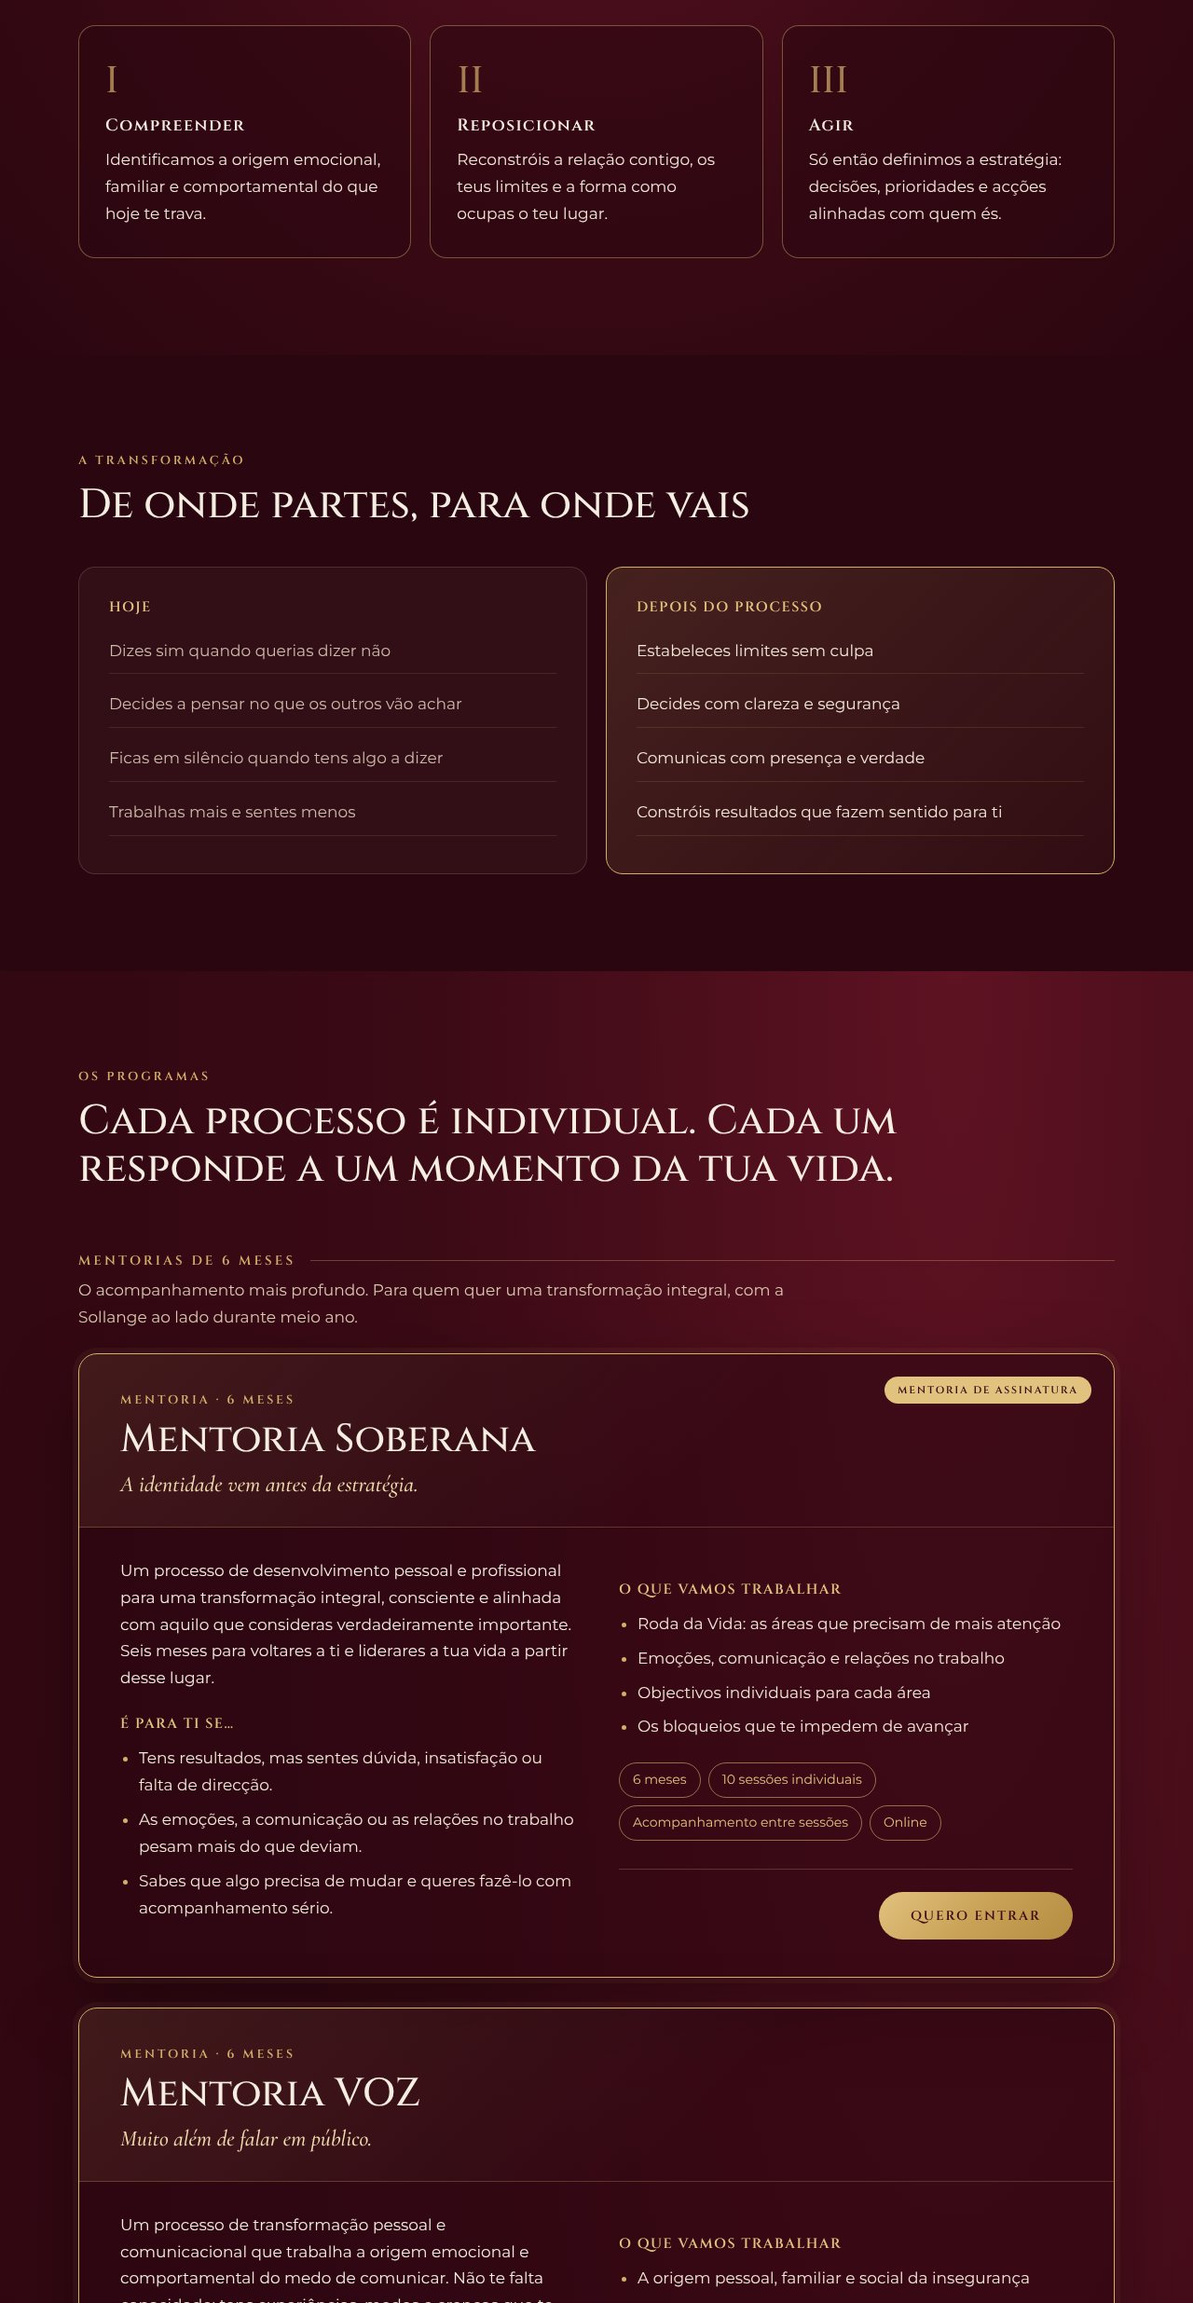
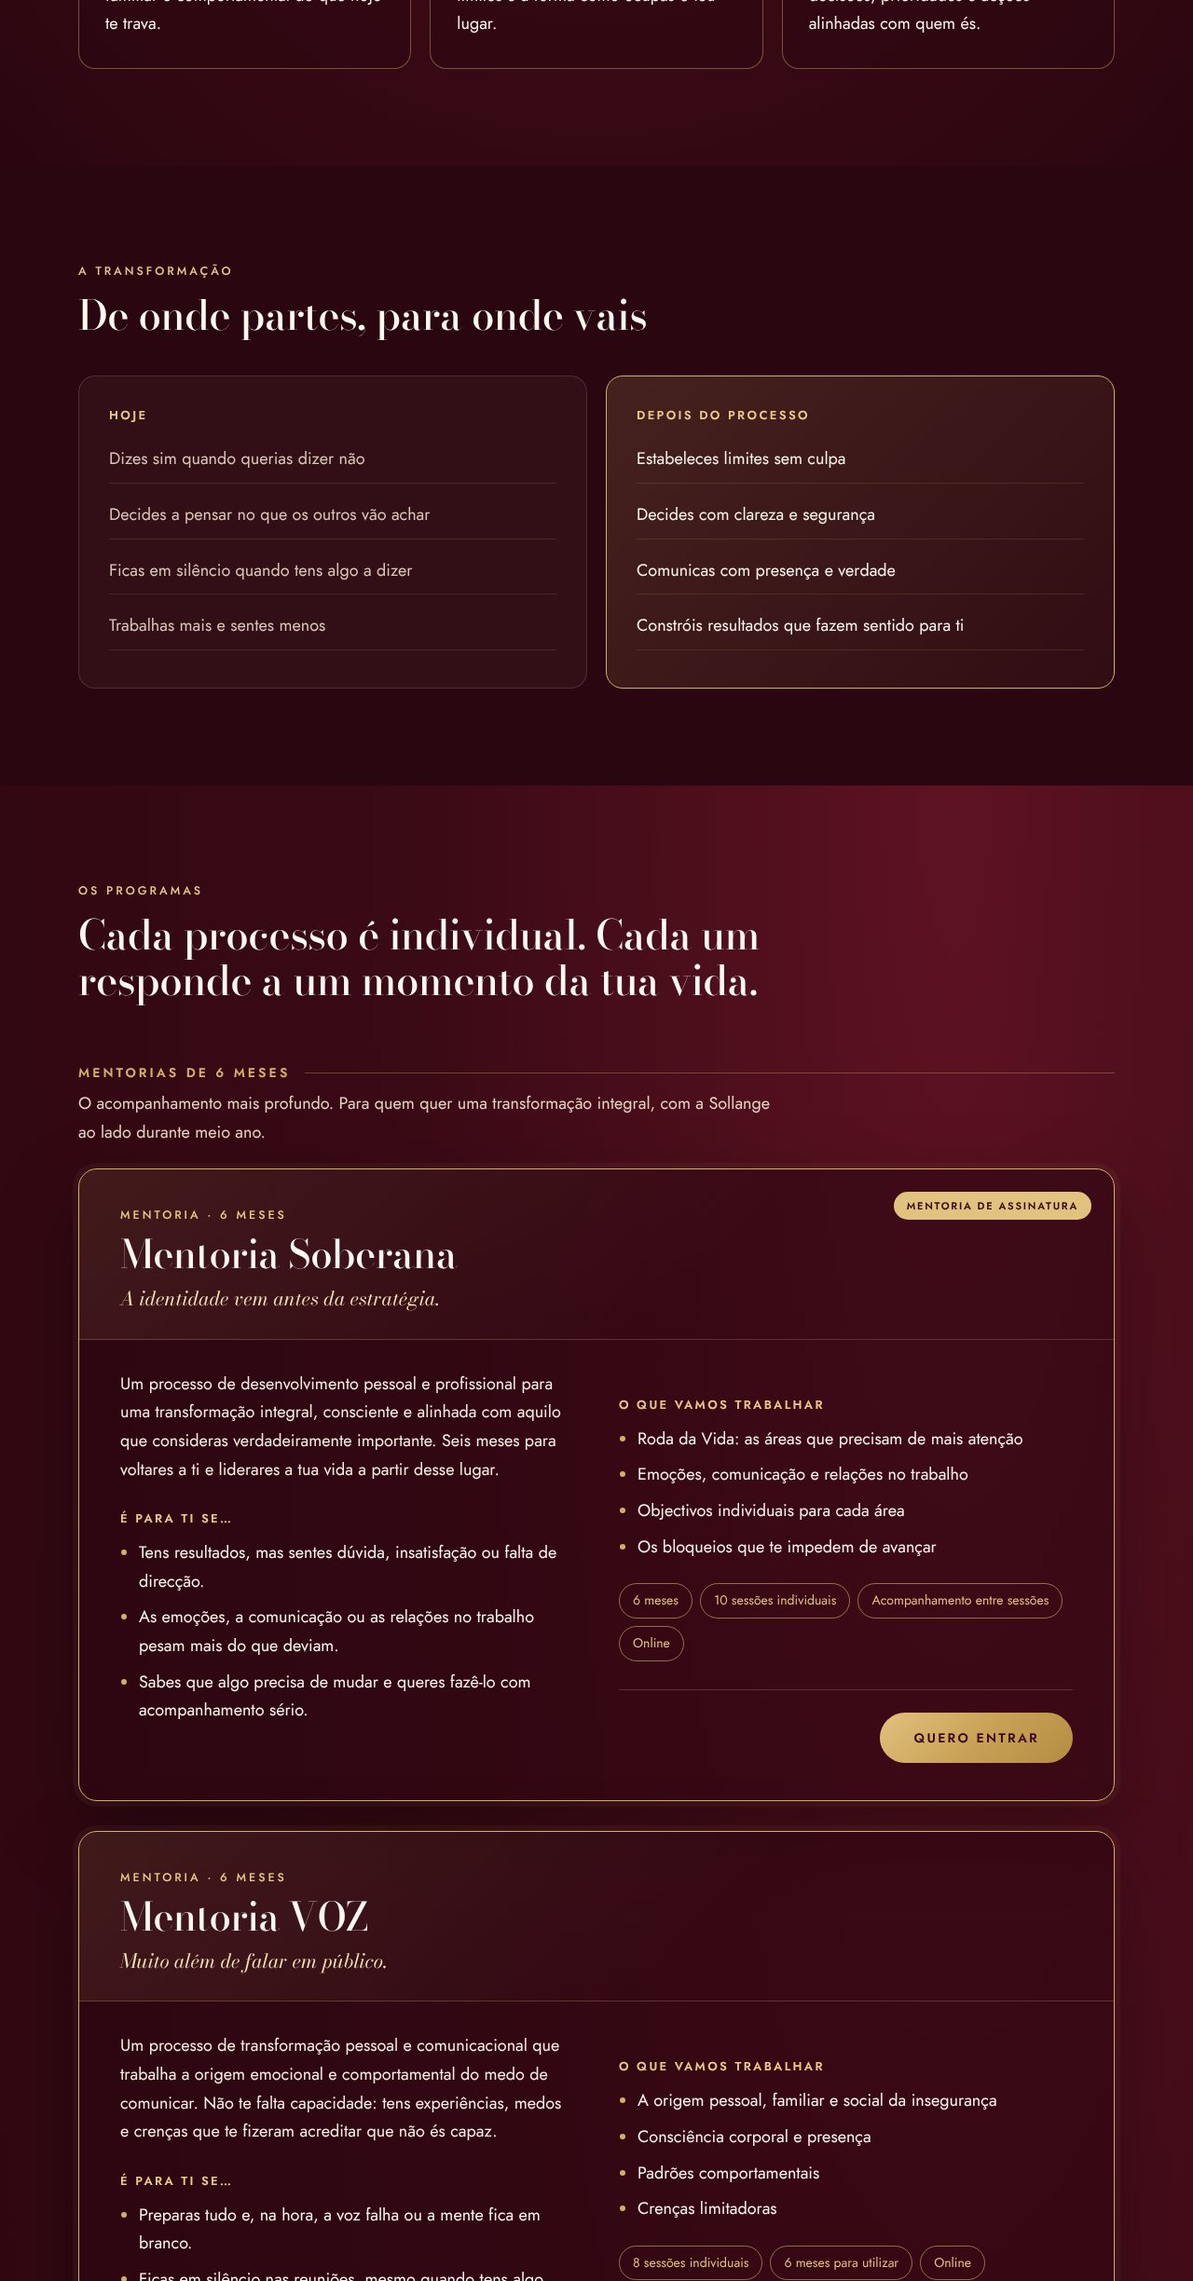
Refine typography: Bodoni Moda headings, Jost body, higher contrast
Claude-Session: https://claude.ai/code/session_01LHQJ2mQGDsvNSWxv53LoAn

diff --git a/sollange-programas.html b/sollange-programas.html
@@ -1,34 +1,35 @@
 <!DOCTYPE html>
 <html lang="pt-PT"><head><meta charset="utf-8"><meta name="viewport" content="width=device-width,initial-scale=1">
 <title>Sollange Almada Binha — Mentoria Individual</title>
-<link rel="stylesheet" href="https://fonts.googleapis.com/css2?family=Cinzel:wght@400..700&family=Cormorant+Garamond:ital,wght@0,500;1,500&family=Montserrat:wght@400;500;600&display=swap">
+<link rel="preconnect" href="https://fonts.googleapis.com"><link rel="preconnect" href="https://fonts.gstatic.com" crossorigin>
+<link rel="stylesheet" href="https://fonts.googleapis.com/css2?family=Bodoni+Moda:ital,opsz,wght@0,6..96,400..600;1,6..96,400..500&family=Jost:wght@400;500;600&display=swap">
 <style>
 *{box-sizing:border-box;margin:0}
 html{scroll-behavior:smooth}
-body{background:#2A0610;color:#F3E7D8;font:400 17px/1.7 Montserrat,Arial,sans-serif}
+body{background:#2A0610;color:#FBF4EC;font:400 18px/1.7 Jost,Arial,sans-serif;-webkit-font-smoothing:antialiased}
 a{color:inherit}
 .wrap{max-width:1160px;margin:0 auto;padding:0 24px}
-.eyebrow{font:600 13px Cinzel,Georgia,serif;letter-spacing:.22em;text-transform:uppercase;color:#D4AF6A}
-h1,h2{font-family:Cinzel,Georgia,serif;font-weight:500;color:#F6EEE3;line-height:1.15}
-h3{font:600 15px Cinzel,Georgia,serif;letter-spacing:.1em;text-transform:uppercase;color:#E2C27F;margin:24px 0 12px}
-.quote{font:italic 500 clamp(26px,3.4vw,40px)/1.3 "Cormorant Garamond",Georgia,serif;color:#F1DDB0}
-.btn{display:inline-block;background:linear-gradient(135deg,#E2C27F,#C9A257 50%,#B58C42);color:#3A0A15;font:600 14px Cinzel,Georgia,serif;letter-spacing:.14em;text-transform:uppercase;text-decoration:none;padding:16px 34px;border-radius:999px;transition:transform .2s,box-shadow .2s}
+.eyebrow{font:500 12.5px Jost,Arial,sans-serif;letter-spacing:.24em;text-transform:uppercase;color:#E9C98A}
+h1,h2{font-family:"Bodoni Moda",Georgia,serif;font-weight:500;color:#FFF8F0;line-height:1.12;letter-spacing:-.01em}
+h3{font:600 13px Jost,Arial,sans-serif;letter-spacing:.18em;text-transform:uppercase;color:#E9C98A;margin:28px 0 12px}
+.quote{font:italic 400 clamp(24px,3vw,36px)/1.35 "Bodoni Moda",Georgia,serif;color:#F6E3BC}
+.btn{display:inline-block;font-weight:600;background:linear-gradient(135deg,#E2C27F,#C9A257 50%,#B58C42);color:#3A0A15;font:600 14px Jost,Arial,sans-serif;letter-spacing:.16em;text-transform:uppercase;text-decoration:none;padding:17px 36px;border-radius:999px;transition:transform .2s,box-shadow .2s}
 .btn:hover{transform:translateY(-2px);box-shadow:0 10px 28px rgba(212,175,106,.3)}
 .btn.line{background:none;border:1.5px solid #D4AF6A;color:#E2C27F}
 .btn.sm{padding:12px 24px;font-size:12px}
 nav{position:sticky;top:0;z-index:5;background:rgba(42,6,16,.88);backdrop-filter:blur(10px);border-bottom:1px solid rgba(212,175,106,.25)}
 nav .wrap{display:flex;justify-content:space-between;align-items:center;height:64px}
-nav b{font:600 14px Cinzel,Georgia,serif;letter-spacing:.18em;color:#E2C27F}
+nav b{font:500 15px Jost,Arial,sans-serif;letter-spacing:.26em;color:#E2C27F}
 nav a.btn{padding:10px 22px;font-size:12px}
 .hero{background:radial-gradient(ellipse at 25% 10%,#6E1628,#4A0E1B 45%,#2A0610 100%);text-align:center;padding:120px 0 130px}
-.hero h1{font-size:clamp(34px,5.2vw,62px);margin:22px auto 24px;max-width:960px}
+.hero h1{font-size:clamp(38px,5.4vw,68px);font-weight:500;margin:22px auto 24px;max-width:960px}
 .hero p.sub{max-width:720px;margin:0 auto 40px;font-size:19px;color:#F6EEE3}
 .hero .btns{display:flex;gap:16px;justify-content:center;flex-wrap:wrap}
 .selo{display:inline-flex;gap:10px;align-items:center;margin-top:32px;padding:10px 20px;border:1px solid rgba(212,175,106,.45);border-radius:999px;font-size:14px;color:#E2C27F}
 .selo::before{content:"";width:8px;height:8px;border-radius:50%;background:#D4AF6A;box-shadow:0 0 10px #D4AF6A}
 section{padding:104px 0}
 .sec-h{font-size:clamp(28px,3.6vw,44px);margin:14px 0 40px;max-width:900px}
-.lead{max-width:760px;font-size:19px;color:#EBDCCB}
+.lead{max-width:760px;font-size:20px;color:#F3E6D8}
 .center{text-align:center}.center .sec-h,.center .lead{margin-left:auto;margin-right:auto}
 .dor-sec{background:#3A0A15}
 .dor-grid{display:grid;grid-template-columns:repeat(auto-fit,minmax(300px,1fr));gap:20px}
@@ -36,40 +37,40 @@ section{padding:104px 0}
 .metodo{background:radial-gradient(ellipse at 50% 0%,#5E1222,#3A0A15 55%,#2A0610 100%)}
 .pilares{display:grid;grid-template-columns:repeat(auto-fit,minmax(260px,1fr));gap:20px;margin-top:48px;text-align:left}
 .pilar{padding:32px 28px;border:1px solid rgba(212,175,106,.45);border-radius:18px;background:rgba(42,6,16,.5)}
-.pilar span{font:500 40px Cinzel,Georgia,serif;color:#D4AF6A;opacity:.7}
-.pilar h4{font:600 18px Cinzel,Georgia,serif;letter-spacing:.08em;color:#F6EEE3;margin:8px 0 10px}
+.pilar span{font:italic 400 40px "Bodoni Moda",Georgia,serif;color:#E9C98A}
+.pilar h4{font:500 26px "Bodoni Moda",Georgia,serif;letter-spacing:0;color:#F6EEE3;margin:8px 0 10px}
 .transf{display:grid;grid-template-columns:1fr 1fr;gap:20px}
 .transf div{padding:32px;border-radius:18px}
 .transf .antes{background:rgba(243,231,216,.04);border:1px solid rgba(243,231,216,.15)}
 .transf .depois{background:linear-gradient(135deg,rgba(212,175,106,.16),rgba(212,175,106,.04));border:1px solid #D4AF6A}
 .transf h3{margin-top:0}
 .transf ul{list-style:none;padding:0}.transf li{padding:10px 0;border-bottom:1px solid rgba(212,175,106,.15)}
-.transf .antes li{color:#CDB9A8}
+.transf .antes li{color:#D9C6B6}
 .progs{background:radial-gradient(ellipse at 80% 0%,#5E1222,#3A0A15 40%,#2A0610 100%)}
-.grupo-t{margin:64px 0 8px;font:600 14px Cinzel,Georgia,serif;letter-spacing:.22em;text-transform:uppercase;color:#D4AF6A;display:flex;align-items:center;gap:16px}
+.grupo-t{margin:64px 0 8px;font:600 14px Jost,Arial,sans-serif;letter-spacing:.22em;text-transform:uppercase;color:#D4AF6A;display:flex;align-items:center;gap:16px}
 .grupo-t::after{content:"";flex:1;height:1px;background:rgba(212,175,106,.35)}
-.grupo-d{color:#D9C6B0;margin-bottom:24px;max-width:760px}
+.grupo-d{color:#E3D2C2;margin-bottom:24px;max-width:760px}
 .prog{border:1px solid rgba(212,175,106,.45);border-radius:20px;background:rgba(42,6,16,.55);margin-bottom:32px;overflow:hidden;scroll-margin-top:84px}
 .prog.flag{border:1.5px solid #D4AF6A;box-shadow:0 0 0 6px rgba(212,175,106,.06),0 30px 80px rgba(0,0,0,.35)}
 .prog-head{padding:40px 44px 28px;border-bottom:1px solid rgba(212,175,106,.25);background:linear-gradient(135deg,rgba(212,175,106,.12),transparent 60%);position:relative}
 .prog-head h2{font-size:clamp(28px,3.4vw,42px);margin:10px 0 8px}
-.ribbon{position:absolute;top:24px;right:24px;font:600 11px Cinzel,Georgia,serif;letter-spacing:.16em;text-transform:uppercase;color:#3A0A15;background:#E2C27F;padding:7px 14px;border-radius:999px}
-.tag{font:italic 500 24px/1.35 "Cormorant Garamond",Georgia,serif;color:#F1DDB0}
+.ribbon{position:absolute;top:24px;right:24px;font:600 11px Jost,Arial,sans-serif;letter-spacing:.16em;text-transform:uppercase;color:#3A0A15;background:#E2C27F;padding:7px 14px;border-radius:999px}
+.tag{font:italic 400 21px/1.45 "Bodoni Moda",Georgia,serif;color:#F6E3BC}
 .prog-body{display:grid;grid-template-columns:1fr 1fr;gap:48px;padding:32px 44px 40px}
 .desc{color:#F6EEE3}
 ul{padding-left:20px} li{margin-bottom:8px} li::marker{color:#D4AF6A}
 .fmt{display:flex;flex-wrap:wrap;gap:8px;margin-top:24px}
 .fmt span{border:1px solid rgba(212,175,106,.6);border-radius:999px;padding:6px 14px;font-size:14px;color:#E2C27F}
-.bonus{margin-top:14px;font:600 13px Cinzel,Georgia,serif;letter-spacing:.12em;text-transform:uppercase;color:#3A0A15;background:#E2C27F;display:inline-block;padding:8px 16px;border-radius:999px}
+.bonus{margin-top:14px;font:600 13px Jost,Arial,sans-serif;letter-spacing:.12em;text-transform:uppercase;color:#3A0A15;background:#E2C27F;display:inline-block;padding:8px 16px;border-radius:999px}
 .preco-row{display:flex;align-items:flex-end;justify-content:flex-end;gap:20px;flex-wrap:wrap;margin-top:30px;padding-top:24px;border-top:1px solid rgba(212,175,106,.25)}
-.preco small{display:block;font:600 11px Cinzel,Georgia,serif;letter-spacing:.2em;text-transform:uppercase;color:#C9AFA2}
-.preco b{font:600 44px/1.1 Cinzel,Georgia,serif;color:#E2C27F}
-.preco i{display:block;font-style:normal;font-size:13px;color:#C9AFA2}
+.preco small{display:block;font:600 11px Jost,Arial,sans-serif;letter-spacing:.2em;text-transform:uppercase;color:#D9C3B4}
+.preco b{font:500 44px/1.1 Jost,Arial,sans-serif;color:#E2C27F}
+.preco i{display:block;font-style:normal;font-size:13px;color:#D9C3B4}
 .mini-grid{display:grid;grid-template-columns:repeat(auto-fit,minmax(300px,1fr));gap:20px}
 .mini{display:flex;flex-direction:column;padding:32px 28px;border:1px solid rgba(212,175,106,.4);border-radius:18px;background:rgba(42,6,16,.5);scroll-margin-top:84px}
 .mini h2{font-size:26px;margin:8px 0 6px}
 .mini .tag{font-size:21px;margin-bottom:14px}
-.mini p.d{font-size:15px;color:#EBDCCB;flex:1}
+.mini p.d{font-size:15px;color:#F3E6D8;flex:1}
 .mini .fmt span{font-size:13px}
 .mini .preco-row{margin-top:20px}
 .mini .preco b{font-size:32px}
@@ -81,30 +82,30 @@ ul{padding-left:20px} li{margin-bottom:8px} li::marker{color:#D4AF6A}
 .pq .sim li::marker{content:"✓  ";color:#D4AF6A}
 .passos{display:grid;grid-template-columns:repeat(auto-fit,minmax(240px,1fr));gap:20px;margin-top:8px;counter-reset:p}
 .passo{padding:32px 28px;border-top:2px solid #D4AF6A;background:rgba(212,175,106,.05);border-radius:0 0 16px 16px}
-.passo::before{counter-increment:p;content:"0" counter(p);font:500 34px Cinzel,Georgia,serif;color:#D4AF6A}
-.passo h4{font:600 17px Cinzel,Georgia,serif;letter-spacing:.06em;color:#F6EEE3;margin:10px 0 8px}
-.passo p{font-size:15px;color:#EBDCCB}
+.passo::before{counter-increment:p;content:"0" counter(p);font:italic 400 38px "Bodoni Moda",Georgia,serif;color:#D4AF6A}
+.passo h4{font:500 24px "Bodoni Moda",Georgia,serif;letter-spacing:0;color:#F6EEE3;margin:10px 0 8px}
+.passo p{font-size:15px;color:#F3E6D8}
 .depo{background:#3A0A15}
 .depo-grid{display:grid;grid-template-columns:repeat(auto-fit,minmax(280px,1fr));gap:20px}
 .depo-grid figure{padding:32px 28px;border:1px solid rgba(212,175,106,.35);border-radius:18px;margin:0}
-.depo-grid blockquote{font:italic 500 22px/1.4 "Cormorant Garamond",Georgia,serif;color:#F1DDB0}
-.depo-grid figcaption{margin-top:16px;font-size:14px;color:#C9AFA2}
+.depo-grid blockquote{font:italic 400 20px/1.5 "Bodoni Moda",Georgia,serif;color:#F1DDB0}
+.depo-grid figcaption{margin-top:16px;font-size:14px;color:#D9C3B4}
 .custo{text-align:center}
 .custo .t{max-width:760px;margin:0 auto;font-size:19px}
 .faq details{border-bottom:1px solid rgba(212,175,106,.3);padding:22px 0}
-.faq summary{cursor:pointer;font:600 18px Montserrat,Arial,sans-serif;color:#F6EEE3;list-style:none;display:flex;justify-content:space-between;gap:16px}
+.faq summary{cursor:pointer;font:500 19px Jost,Arial,sans-serif;color:#F6EEE3;list-style:none;display:flex;justify-content:space-between;gap:16px}
 .faq summary::after{content:"+";color:#D4AF6A;font-size:24px;line-height:1}
 .faq details[open] summary::after{content:"−"}
-.faq details p{margin-top:12px;color:#EBDCCB;max-width:820px}
+.faq details p{margin-top:12px;color:#F3E6D8;max-width:820px}
 .sobre{background:#3A0A15}
 .sobre .grid{display:grid;grid-template-columns:1fr 1.2fr;gap:64px;align-items:start}
 .sobre p+p{margin-top:16px}
-.nota{font-size:14px;color:#D9C6B0}
+.nota{font-size:15px;color:#E3D2C2}
 .final{text-align:center;background:radial-gradient(ellipse at 50% 0%,#6E1628,#4A0E1B 50%,#2A0610 100%)}
 .final .quote{max-width:820px;margin:0 auto 24px}
 .final .lead{margin:0 auto 36px}
 /* fotos */
-.foto{position:relative;overflow:hidden;border-radius:24px;border:1px solid rgba(212,175,106,.5);background:linear-gradient(160deg,rgba(212,175,106,.18),rgba(42,6,16,.6));display:flex;align-items:center;justify-content:center;text-align:center;color:#C9AFA2;font:600 12px Cinzel,Georgia,serif;letter-spacing:.18em;text-transform:uppercase;padding:20px}
+.foto{position:relative;overflow:hidden;border-radius:24px;border:1px solid rgba(212,175,106,.5);background:linear-gradient(160deg,rgba(212,175,106,.18),rgba(42,6,16,.6));display:flex;align-items:center;justify-content:center;text-align:center;color:#D9C3B4;font:600 12px Jost,Arial,sans-serif;letter-spacing:.18em;text-transform:uppercase;padding:20px}
 .foto img{position:absolute;inset:0;width:100%;height:100%;object-fit:cover}
 .foto.retrato{aspect-ratio:4/5}
 .hero-grid{display:grid;grid-template-columns:1.25fr .85fr;gap:56px;align-items:center;text-align:left}
@@ -118,33 +119,32 @@ ul{padding-left:20px} li{margin-bottom:8px} li::marker{color:#D4AF6A}
 .depo-grid figure{display:flex;flex-direction:column}
 .depo-grid blockquote{flex:1}
 .estrelas{color:#D4AF6A;letter-spacing:.2em;margin-bottom:14px}
-.depo-res{display:inline-block;align-self:flex-start;margin-bottom:16px;font:600 11px Cinzel,Georgia,serif;letter-spacing:.14em;text-transform:uppercase;color:#3A0A15;background:#E2C27F;padding:6px 12px;border-radius:999px}
+.depo-res{display:inline-block;align-self:flex-start;margin-bottom:16px;font:600 11px Jost,Arial,sans-serif;letter-spacing:.14em;text-transform:uppercase;color:#3A0A15;background:#E2C27F;padding:6px 12px;border-radius:999px}
 .autor{display:flex;gap:14px;align-items:center;margin-top:22px}
 .autor .foto{width:56px;height:56px;border-radius:50%;padding:0;font-size:0;flex:none}
-.ini{width:52px;height:52px;flex:none;border-radius:50%;display:flex;align-items:center;justify-content:center;border:1px solid #D4AF6A;background:rgba(212,175,106,.12);font:600 14px Cinzel,Georgia,serif;color:#E2C27F;letter-spacing:.05em}
+.ini{width:52px;height:52px;flex:none;border-radius:50%;display:flex;align-items:center;justify-content:center;border:1px solid #D4AF6A;background:rgba(212,175,106,.12);font:500 15px Jost,Arial,sans-serif;color:#E2C27F;letter-spacing:.05em}
 .autor b{display:block;color:#F6EEE3;font-weight:600}
-.autor span{font-size:14px;color:#C9AFA2}
+.autor span{font-size:14px;color:#D9C3B4}
 .video-depo{margin-top:24px;aspect-ratio:16/9;max-width:820px}
 .numeros{display:grid;grid-template-columns:repeat(auto-fit,minmax(180px,1fr));gap:20px;margin-bottom:56px;text-align:center}
-.numeros b{display:block;font:500 44px Cinzel,Georgia,serif;color:#E2C27F}
-.numeros span{font-size:14px;color:#D9C6B0}
+.numeros b{display:block;font:400 48px "Bodoni Moda",Georgia,serif;color:#E2C27F}
+.numeros span{font-size:14px;color:#E3D2C2}
 .midia{text-align:center;padding:40px 0;border-top:1px solid rgba(212,175,106,.2);border-bottom:1px solid rgba(212,175,106,.2);background:#2A0610}
 .midia p.eyebrow{margin-bottom:18px;font-size:11px}
-.midia div{display:flex;justify-content:center;gap:40px;flex-wrap:wrap;font:600 15px Cinzel,Georgia,serif;letter-spacing:.14em;color:#8F7466}
+.midia div{display:flex;justify-content:center;gap:40px;flex-wrap:wrap;font:italic 400 19px "Bodoni Moda",Georgia,serif;letter-spacing:0;color:#B79A86}
 .prints{columns:3 300px;column-gap:20px;margin-top:56px}
 .prints img{width:100%;display:block;margin:0 0 20px;break-inside:avoid;border-radius:16px;border:1px solid rgba(212,175,106,.4);box-shadow:0 20px 50px rgba(0,0,0,.35)}
-footer{text-align:center;padding:40px 0;font-size:14px;color:#C9AFA2;border-top:1px solid rgba(212,175,106,.2)}
+footer{text-align:center;padding:40px 0;font-size:14px;color:#D9C3B4;border-top:1px solid rgba(212,175,106,.2)}
 @media (max-width:820px){.hero-grid{grid-template-columns:1fr;text-align:center;gap:40px}.hero-grid .btns{justify-content:center}.hero-grid .foto{max-width:360px;margin:0 auto}.galeria{grid-template-columns:1fr 1fr}.galeria .foto:first-child{grid-column:span 2;aspect-ratio:4/3}.prog-body,.sobre .grid,.transf,.pq{grid-template-columns:1fr;gap:16px}.prog-body{gap:8px}.prog-head,.prog-body{padding-left:24px;padding-right:24px}.ribbon{position:static;display:inline-block;margin-bottom:12px}section{padding:76px 0}nav a.btn{display:none}}
 </style></head><body>
 
 <nav><div class="wrap"><b>SOLLANGE ALMADA BINHA</b><a class="btn" href="#candidatura">Candidatar-me</a></div></nav>
 
 <header class="hero"><div class="wrap hero-grid"><div>
-<svg viewBox="0 0 200 120" width="120" height="72" aria-label="Símbolo de lótus"><g fill="none" stroke="#D4AF6A" stroke-width="3" stroke-linejoin="round"><path d="M100,10 C122,40 122,80 100,106 C78,80 78,40 100,10Z"/><path d="M100,106 C70,96 54,66 60,34 C82,50 96,76 100,106Z"/><path d="M100,106 C130,96 146,66 140,34 C118,50 104,76 100,106Z"/><path d="M100,106 C60,110 30,92 18,66 C50,64 82,80 100,106Z"/><path d="M100,106 C140,110 170,92 182,66 C150,64 118,80 100,106Z"/></g></svg>
-<p class="eyebrow" style="margin-top:20px">Mentoria individual · Acompanhamento 1:1</p>
+<p class="eyebrow">Mentoria individual · Acompanhamento 1:1</p>
 <h1>Conquistaste muito por fora. Agora é tempo de voltares a liderar por dentro.</h1>
 <p class="sub">Um acompanhamento individual e reservado para quem já provou o que vale e não aceita continuar a viver em piloto automático, a calar o que sente ou a adiar o que é seu.</p>
-<div class="btns"><a class="btn" href="#candidatura">Candidatar-me a uma conversa</a><a class="btn line" href="#programas">Conhecer os programas</a></div>
+<div class="btns"><a class="btn" href="#candidatura">Candidatar-me a uma conversa</a><a class="btn line" href="#programas">Ver programas</a></div>
 <p class="selo">Número limitado de clientes em acompanhamento em simultâneo</p>
 </div>
 <div class="foto retrato">Foto principal da Sollange<img src="fotos/sollange-hero.jpg" alt="Sollange Almada Binha" onerror="this.remove()"></div>
